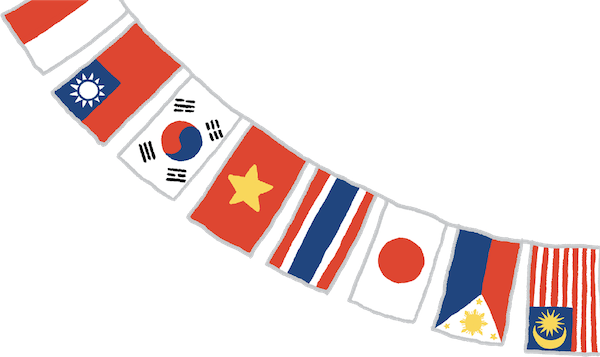
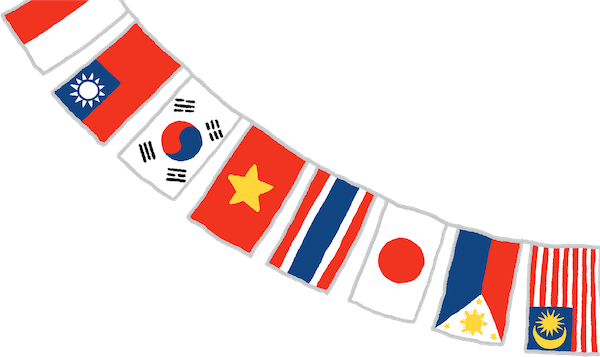
Image optimization

Changed region(s): [[0.87, 0.7087, 1.0, 0.986], [0.36, 0.4622, 0.45, 0.6162], [0.75, 0.8627, 0.84, 0.9552]]

diff --git a/index.html b/index.html
@@ -52,7 +52,7 @@
                         <a class="nav-link nav-border my-sm-22 dropdown-toggle" href="#" id="navbarDropdown" role="button" data-toggle="dropdown" aria-haspopup="true" aria-expanded="false"><img src="img/flageng.png" width="40"></a>
 
                         <div class="dropdown-menu dropdown-menu-right animate slideIn" aria-labelledby="navbarDropdown">
-                            <a class="dropdown-item" href="../index.html"><img src="img/flagjpn.png" width="30">日本語</a>
+                            <a class="dropdown-item" href="../index.html"><img src="img/flagjpn.png" width="30"> 日本語</a>
                             <!--<a class="dropdown-item" href="#"><img src="img/flagthai.png" width="30"></a>
                             <a class="dropdown-item" href="#"><img src="img/flagviet.png" width="30"></a>-->
                         </div>

diff --git a/css/freelancer.css b/css/freelancer.css
@@ -11361,7 +11361,7 @@ form .row:first-child .floating-label-form-group {
 
 .top-page .strength-section .img-area {
   min-height: 20vw;
-  background-image: url("../img/illust_02.jpg");
+  background-image: url("../img/illust_02.png");
   background-repeat: no-repeat;
   background-position: center;
   background-size: contain;
